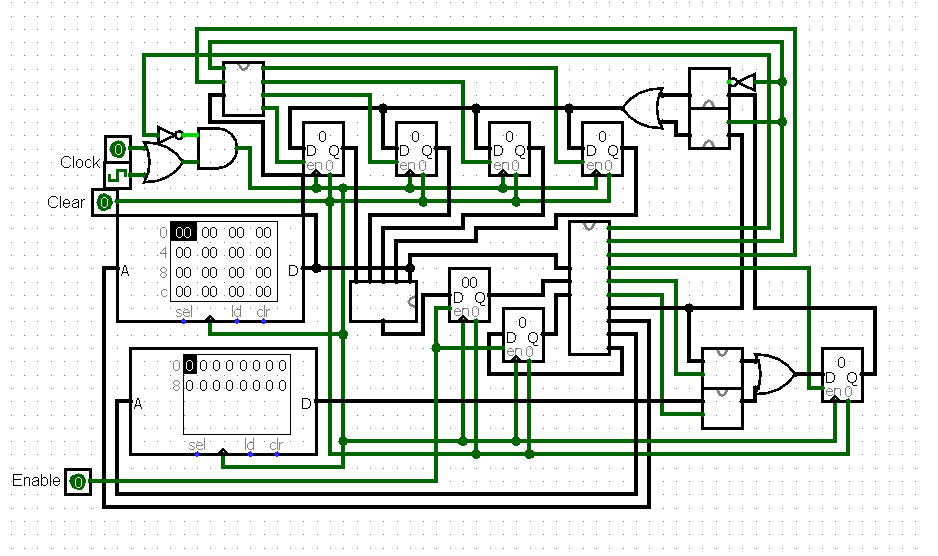
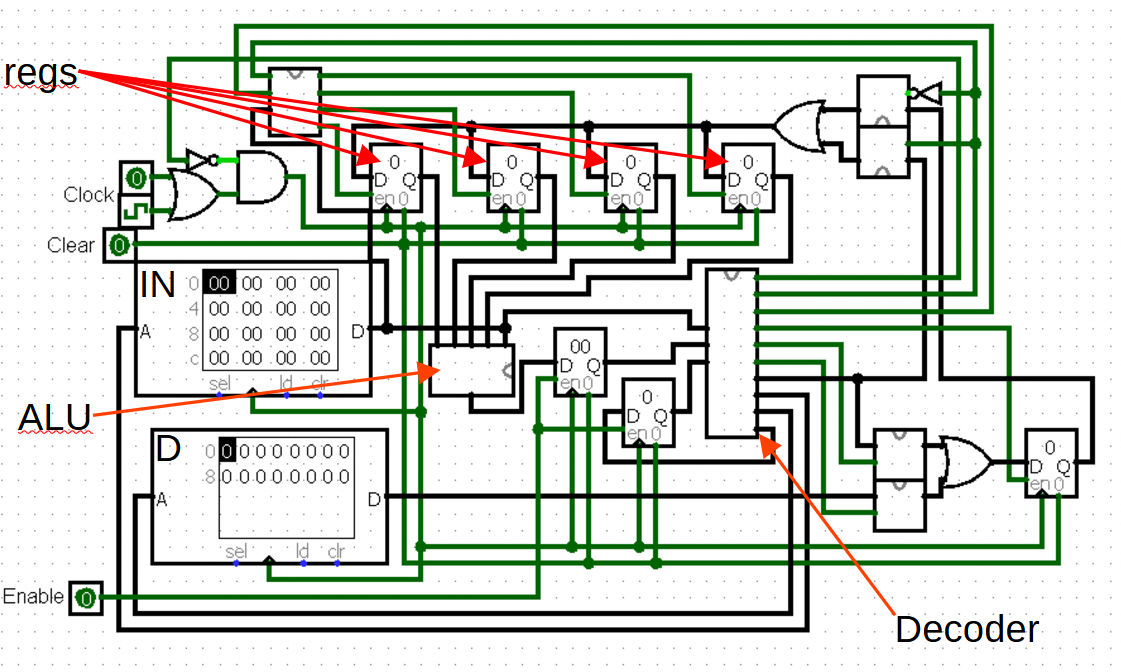
added ISA image for computer 1

diff --git a/projects/computer-design.html b/projects/computer-design.html
@@ -69,11 +69,20 @@
         <h2>How I built it</h2>
         <h3>Computer 1</h3>
         <figure>
-            <img src="images/computer_design/computer_1.odg" alt="computer 1 layout" />
+            <img src="images/computer_design/computer_1.png" alt="computer 1 layout" />
             <figcaption>Computer 1 Layout</figcaption>
         </figure>
         <p>
-          The computer has 4 registers 
+          The computer has 4 registers, ALU, instruction decoder, and 2 memory blocks where the top
+          block (labeled IN in the top left) is for 8-bit instructions and the bottom block if for 4-bit data 
+          (labeled D in the top left). Below is the ISA.
+        </p> 
+        <figure>
+            <img src="images/computer_design/computer_1_ISA.png" alt="computer 1 ISA" />
+            <figcaption>Computer 1 ISA</figcaption>
+        </figure>
+        <p>
+          
           The library is structured around a <code>Layer</code> base class with
           <code>forward()</code> and <code>backward()</code> methods. Each layer type
           (dense, conv, activation) inherits from it, making it easy to stack layers
